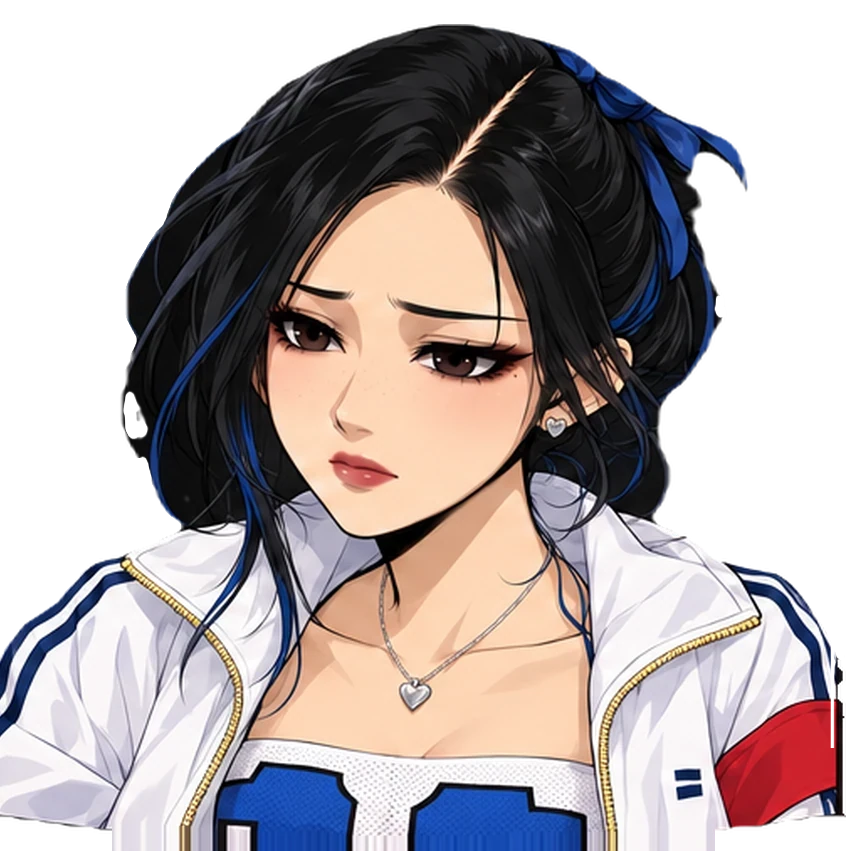
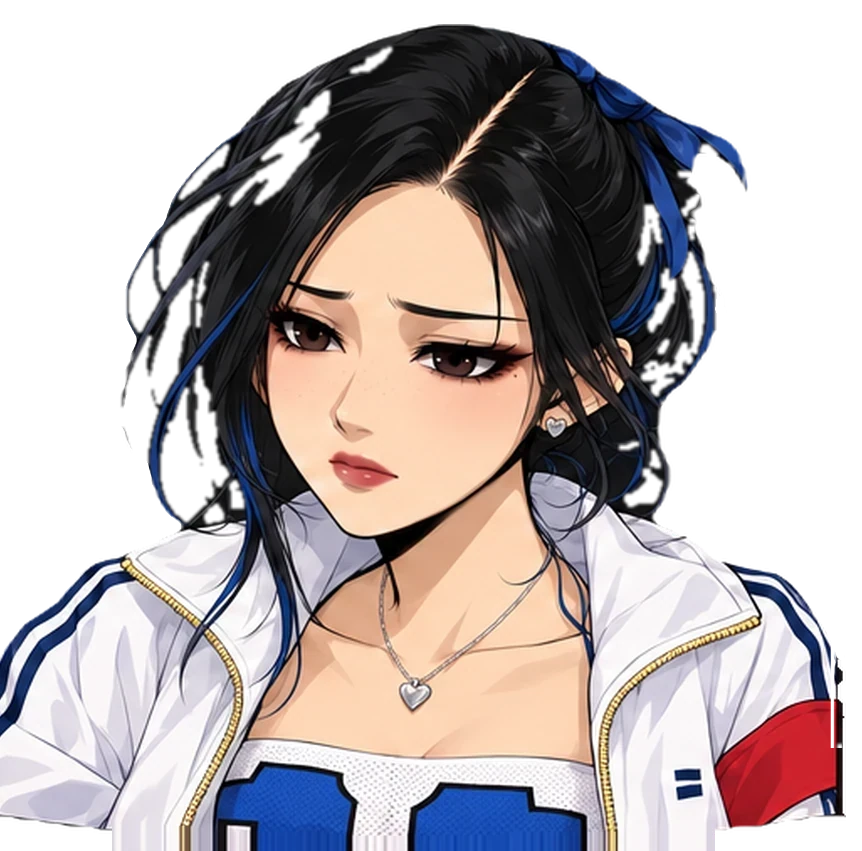
FEMC: Summer Session portraits lose the sheet background between her hair strands
The dark patch beside her head was background showing through strand gaps, which Vision kept as hair; gaps
near the outline (mid-dark, unsaturated, within 45px of the edge) are now cut, aligned to the canvas by
template match.

diff --git a/assets/femc/game/cosmetics.js b/assets/femc/game/cosmetics.js
@@ -327,8 +327,8 @@ window.FemcCosmetics = (() => {
     const x = onIn(`skin:${id}`); if (!x) return null;
     const have = ((readyArt().skins || {})[x.id]?.portraits || {})[id] || [];
     const f = [face, face && face.replace(/-\d+$/, ''), 'neutral', have[0]].find(k => k && have.includes(k));
-    // ?v= bumps when a cut is redone (3: Summer Session, Snake Charmer, Strawberry, Prowl and Oops recut, 2026-10-30).
-    return f ? `${G.base}${skinDir(x.id)}portraits/${id}/${f}.webp?v=3` : null;
+    // ?v= bumps when a cut is redone (4: Summer Session's strand gaps, after the 3rd recut of five outfits, 2026-10-30).
+    return f ? `${G.base}${skinDir(x.id)}portraits/${id}/${f}.webp?v=4` : null;
   }
   // The Equipment tab's picture for a fighter's weapon slot (a path from the site root, like a gear's `art`).
   function weaponArt(who) { const x = onIn(`weapon:${who}`); return x ? `${skinDir(x.id)}weapon.webp` : null; }

diff --git a/femc-game.html b/femc-game.html
@@ -148,7 +148,7 @@
   <script src="assets/femc/game/menu.js?v=27"></script>
   <script src="assets/femc/game/art/ready.js?v=15"></script>
   <script src="assets/femc/game/gacha.js?v=13"></script>
-  <script src="assets/femc/game/cosmetics.js?v=19"></script>
+  <script src="assets/femc/game/cosmetics.js?v=20"></script>
   <script src="assets/femc/game/echoes-ui.js?v=1"></script>
   <script src="assets/femc/game/requests.js?v=2"></script>
   <script src="assets/femc/game/stamps.js?v=4"></script>
